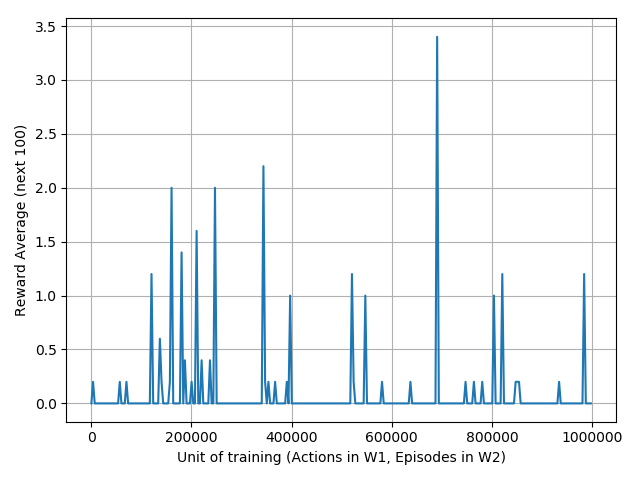
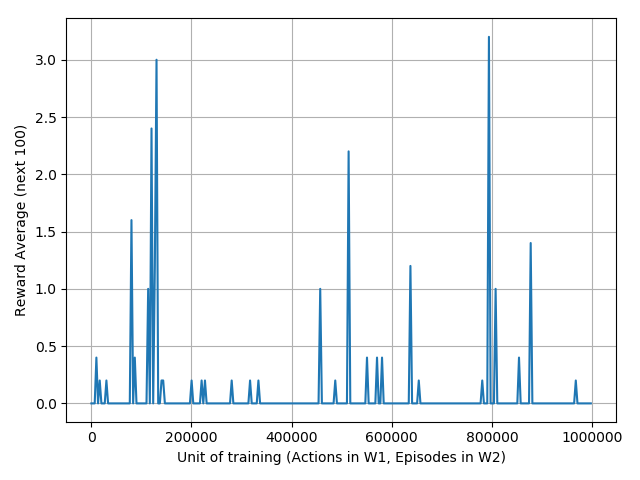
modified plots

diff --git a/plot.py b/plot.py
@@ -8,7 +8,7 @@ def main(filename):
   rewards = [float(r) for r in rewards]
   rew = [0]*len(rewards)*100
   for i, r in enumerate(rewards):
-   rew[(i+1)*100 - 1] = r
+   rew[(i+1)*100 - 1] =  r  * 100
 
   plot('./', rew)
 
